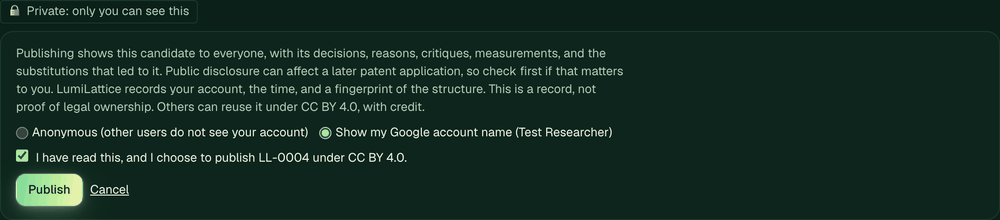
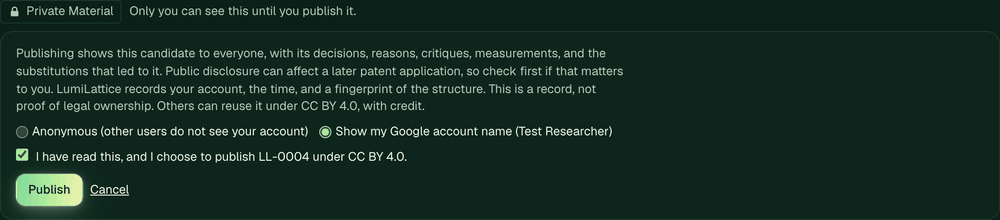
Improve the account area and add a glowing material header

diff --git a/frontend/components/PublishControl.tsx b/frontend/components/PublishControl.tsx
@@ -3,6 +3,7 @@
 import { useLocale, useTranslations } from "next-intl";
 import { useState } from "react";
 import { useAuth } from "@/components/Auth";
+import { LockIcon } from "@/components/LockIcon";
 import { setVisibility, type Candidate, type Credit } from "@/lib/api";
 
 type Props = {
@@ -24,23 +25,34 @@ function useCreditText() {
   };
 }
 
-/** Beside the candidate's name: whose it is, and who can see it. */
+/** Below the candidate's name: whose it is, and who can see it. */
 export function OwnershipLine({ candidate }: { candidate: Candidate }) {
   const t = useTranslations("Publish");
   const creditText = useCreditText();
   const { enabled } = useAuth();
-  const parts: string[] = [];
-  if (candidate.credit) parts.push(creditText(candidate.credit));
-  else if (candidate.mine) parts.push(`🔒 ${t("privateChip")}`);
-  else if (enabled) parts.push(t("publicChip"));
-  if (candidate.based_on_credit) {
-    parts.push(
-      candidate.based_on_credit.display === "name" && candidate.based_on_credit.name
-        ? t("basedOn", { name: candidate.based_on_credit.name })
-        : t("basedOnAnonymous"),
-    );
-  }
-  return parts.length ? <p className="text-xs text-muted">{parts.join(" · ")}</p> : null;
+  const based = candidate.based_on_credit;
+  const basedOn =
+    based && (based.display === "name" && based.name ? t("basedOn", { name: based.name }) : t("basedOnAnonymous"));
+  const badge = "inline-flex items-center gap-1.5 rounded-full border px-2.5 py-1 text-xs font-medium";
+  const hasBadge = candidate.credit || candidate.mine || enabled;
+  if (!hasBadge && !basedOn) return null;
+  return (
+    <div className="flex flex-wrap items-center gap-x-3 gap-y-1.5 text-xs text-muted">
+      {candidate.credit ? (
+        <span className={`${badge} border-tag-dft text-tag-dft`}>🌐 {creditText(candidate.credit)}</span>
+      ) : candidate.mine ? (
+        <span className={`${badge} border-accent bg-accent-soft text-accent-text`} title={t("privateHint")}>
+          <LockIcon />
+          {t("privateChip")}
+        </span>
+      ) : enabled ? (
+        <span className={`${badge} border-line-strong`} title={t("publicChipHint")}>
+          {t("publicChip")}
+        </span>
+      ) : null}
+      {basedOn && <span>{basedOn}</span>}
+    </div>
+  );
 }
 
 // A candidate from private mode has an owner, who alone can publish it, under the signed-in name.
@@ -88,7 +100,9 @@ export function PublishControl({ candidate, onChange }: Props) {
     return (
       <div className="flex flex-col gap-1 text-sm">
         <span className="w-fit rounded border border-line px-2 py-0.5 text-xs text-muted">{t("publicChip")}</span>
-        <p className="text-xs text-muted">{t("publicHint")}</p>
+        <p className="text-xs text-muted">
+          {t("publicChipHint")} {t("publicHint")}
+        </p>
       </div>
     );
   }
@@ -98,9 +112,19 @@ export function PublishControl({ candidate, onChange }: Props) {
   return (
     <div className="flex flex-col gap-2 text-sm">
       <div className="flex flex-wrap items-center gap-2">
-        <span className={`rounded border px-2 py-0.5 text-xs ${published ? "border-tag-dft text-tag-dft" : "border-line text-muted"}`}>
-          {published ? `🌐 ${t("published")}` : owned ? `🔒 ${t("privateChip")}` : t("private")}
+        <span className={`inline-flex items-center gap-1.5 rounded border px-2 py-0.5 text-xs ${published ? "border-tag-dft text-tag-dft" : "border-line text-muted"}`}>
+          {published ? (
+            `🌐 ${t("published")}`
+          ) : owned ? (
+            <>
+              <LockIcon />
+              {t("privateChip")}
+            </>
+          ) : (
+            t("private")
+          )}
         </span>
+        {!published && owned && <span className="text-xs text-muted">{t("privateHint")}</span>}
         {published && candidate.credit && <span className="text-xs text-muted">{creditText(candidate.credit)}</span>}
         {published ? (
           <button type="button" disabled={busy} className="text-xs underline" onClick={() => void apply({ visibility: "private" })}>

diff --git a/frontend/components/Auth.tsx b/frontend/components/Auth.tsx
@@ -2,6 +2,7 @@
 
 import { useTranslations } from "next-intl";
 import { createContext, useContext, useEffect, useState, type ReactNode } from "react";
+import { LockIcon } from "@/components/LockIcon";
 import { setTokenSource } from "@/lib/api";
 
 // Public mode sends no token, so the backend treats the browser as anyone. Private mode sends one,
@@ -103,7 +104,7 @@ export function ModeSwitch() {
   const { enabled, name, mode, failed, choose, signOut } = useAuth();
   if (!enabled) return null;
   return (
-    <div className="flex flex-wrap items-center gap-2 text-sm">
+    <div className="flex flex-wrap items-center gap-2 text-sm sm:mr-3">
       <div role="radiogroup" aria-label={t("modeLabel")} className="segmented text-sm">
         {(["public", "private"] as const).map((option) => (
           <button
@@ -115,17 +116,33 @@ export function ModeSwitch() {
             onClick={() => choose(option)}
             className="segment"
           >
-            {option === "private" ? `🔒 ${t("private")}` : t("public")}
+            {option === "private" ? (
+              <span className="inline-flex items-center gap-1.5">
+                <LockIcon />
+                {t("private")}
+              </span>
+            ) : (
+              t("public")
+            )}
           </button>
         ))}
       </div>
       {name && (
-        <>
-          <span className="text-muted">{name}</span>
-          <button type="button" className="text-xs underline" onClick={() => void signOut()}>
+        <div className="flex items-center gap-2 rounded-full border border-line bg-surface py-1 pl-1 pr-3">
+          <span
+            aria-hidden
+            className="inline-flex h-6 w-6 shrink-0 items-center justify-center rounded-full bg-accent text-xs font-semibold text-on-accent"
+          >
+            {[...name][0]?.toUpperCase()}
+          </span>
+          <span className="max-w-40 truncate font-medium" title={name}>
+            {name}
+          </span>
+          <span aria-hidden className="h-4 w-px bg-line-strong" />
+          <button type="button" className="text-xs text-muted underline-offset-2 hover:text-foreground hover:underline" onClick={() => void signOut()}>
             {t("signOut")}
           </button>
-        </>
+        </div>
       )}
       {failed && !name && <span className="text-xs text-danger">{t("signInFailed")}</span>}
     </div>

diff --git a/frontend/components/CandidatePanel.tsx b/frontend/components/CandidatePanel.tsx
@@ -310,20 +310,24 @@ export function CandidatePanel({
       {error && <p className="mt-3 text-sm text-danger">{tb(error)}</p>}
 
       {current && (
-        <div className="mt-5 space-y-3">
-          <h3 id="step-result" className="scroll-mt-4 font-medium md:scroll-mt-28">
-            {current.candidate_id}: {current.formula}
-            <span className="ml-2 text-xs font-normal text-muted">
+        <div className="mt-6 space-y-4">
+          <div className="material-header space-y-2.5 rounded-xl border border-line-strong p-4 sm:p-5">
+            <h3 id="step-result" className="scroll-mt-8 text-lg font-semibold tracking-tight sm:text-xl md:scroll-mt-36">
+              <span className="material-name">
+                {current.candidate_id}: {current.formula}
+              </span>
+            </h3>
+            <p className="text-xs text-muted">
               {t("lineage", {
                 parent: current.parent_id ?? current.transformation.host.reference ?? "",
                 supercell: current.transformation.supercell.join("×"),
               })}
-            </span>
-            <button type="button" onClick={() => void copyLink()} className="ml-2 text-xs font-normal text-accent-text underline">
-              {copied ? t("linkCopied") : t("copyLink")}
-            </button>
-          </h3>
-          <OwnershipLine candidate={current} />
+              <button type="button" onClick={() => void copyLink()} className="ml-2 text-accent-text underline">
+                {copied ? t("linkCopied") : t("copyLink")}
+              </button>
+            </p>
+            <OwnershipLine candidate={current} />
+          </div>
           <div
             role="tablist"
             aria-label={t("tabsLabel")}

diff --git a/frontend/app/globals.css b/frontend/app/globals.css
@@ -14,6 +14,9 @@
   --muted: #44604f;
   --accent: #146b3a;
   --on-accent: #ffffff;
+  --material: #0b6e3a;
+  --material-glow: rgb(226 178 24 / 0.75);
+  --material-glow-soft: rgb(226 178 24 / 0.22);
   --accent-text: #125f34;
   --accent-soft: #e6f4d2;
   --danger: #b3262b;
@@ -85,6 +88,9 @@
   --muted: #b4cdbc;
   --accent: #a8e6a1;
   --on-accent: #0a2a18;
+  --material: #fff3a8;
+  --material-glow: rgb(255 232 120 / 0.8);
+  --material-glow-soft: rgb(255 232 120 / 0.2);
   --accent-text: #b5eca9;
   --accent-soft: #14362a;
   --danger: #ffa198;
@@ -487,6 +493,16 @@ body::after {
     color: transparent;
   }
 
+  /* A candidate's name, in its own color, with a light that slowly rises and falls. */
+  .material-name {
+    color: var(--material);
+    animation: material-glow 4.5s ease-in-out infinite;
+  }
+
+  .material-header {
+    background: color-mix(in oklab, var(--surface-2) 55%, transparent);
+  }
+
   /* Surfaces catch the light as it passes. Bright and small, with a steep fall-off: the edge is
      brightest, the face less, and the wash stays under the text. */
   .card,
@@ -585,5 +601,25 @@ body::after {
   *::after {
     animation: none !important;
     transition: none !important;
+  }
+}
+
+@keyframes material-glow {
+  0%,
+  100% {
+    text-shadow: 0 0 3px var(--material-glow-soft);
+  }
+
+  50% {
+    text-shadow:
+      0 0 10px var(--material-glow),
+      0 0 26px var(--material-glow-soft);
+  }
+}
+
+@media (prefers-reduced-motion: reduce) {
+  .material-name {
+    animation: none;
+    text-shadow: 0 0 8px var(--material-glow-soft);
   }
 }

diff --git a/frontend/components/LockIcon.tsx b/frontend/components/LockIcon.tsx
@@ -1,0 +1,9 @@
+/** Drawn in the text color, so it stays clear on a bright button, where an emoji does not. */
+export function LockIcon({ className = "" }: { className?: string }) {
+  return (
+    <svg aria-hidden viewBox="0 0 16 16" width="13" height="13" fill="none" className={`inline-block ${className}`}>
+      <rect x="3" y="7" width="10" height="7" rx="1.5" fill="currentColor" />
+      <path d="M5 7V5a3 3 0 0 1 6 0v2" stroke="currentColor" strokeWidth="1.6" strokeLinecap="round" />
+    </svg>
+  );
+}
